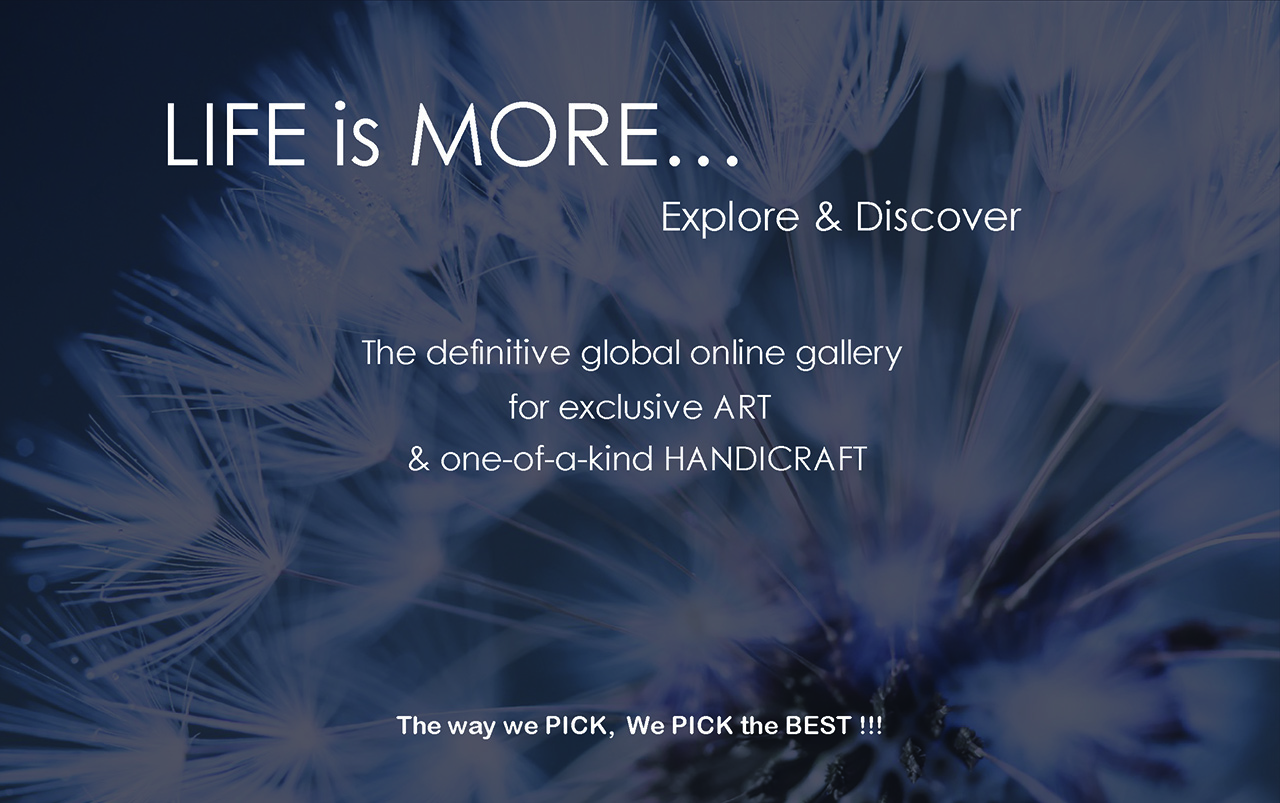
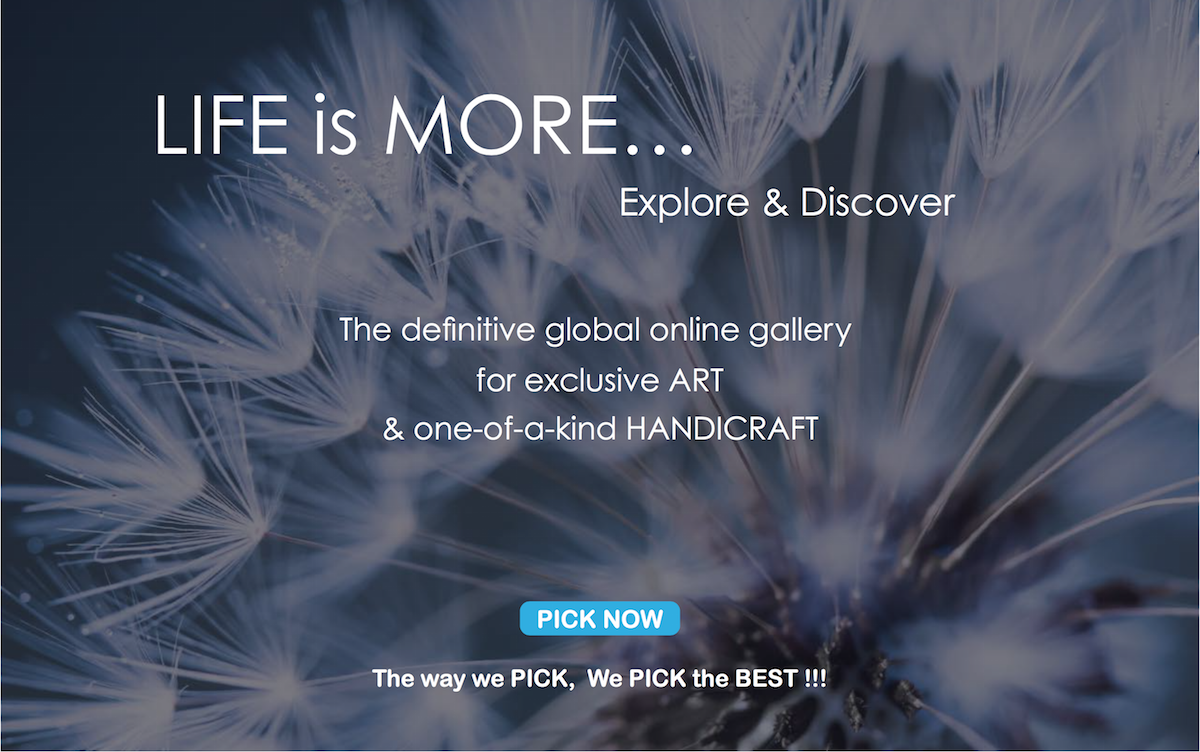
change new slider images and add google analytics

diff --git a/src/components/HomeSlider.jsx b/src/components/HomeSlider.jsx
@@ -1,4 +1,5 @@
 import React from 'react';
+import {Link} from 'react-router'
 
 export default class HomeSlider extends React.Component {
 
@@ -10,13 +11,13 @@ export default class HomeSlider extends React.Component {
   render() {
     return (
         <div className="pikapok__slider col-xs-12">
-          <img className="slider_images img-responsive" src="img/slide-1.jpg"/>
-          <img className="slider_images img-responsive" src="img/slide-2.jpg"/>
-          <img className="slider_images img-responsive" src="img/slide-3.jpg"/>
-          <img className="slider_images img-responsive" src="img/slide-4.jpg"/>
-          <img className="slider_images img-responsive" src="img/slide-5.jpg"/>
-          <img className="slider_images img-responsive" src="img/slide-6.jpg"/>
-          <img className="slider_images img-responsive" src="img/slide-7.jpg"/>
+          <Link to="/gallery"><img className="slider_images img-responsive" src="img/slide-1.jpg"/></Link>
+          <Link to="/gallery"><img className="slider_images img-responsive" src="img/slide-2.jpg"/></Link>
+          <Link to="/product/3"><img className="slider_images img-responsive" src="img/slide-3.jpg"/></Link>
+          <Link to="/gallery"><img className="slider_images img-responsive" src="img/slide-4.jpg"/></Link>
+          <Link to="/gallery"><img className="slider_images img-responsive" src="img/slide-5.jpg"/></Link>
+          <Link to="/gallery"><img className="slider_images img-responsive" src="img/slide-6.jpg"/></Link>
+          <Link to="/product/3"><img className="slider_images img-responsive" src="img/slide-7.jpg"/></Link>
         </div>
     );
   }

diff --git a/public/index.html b/public/index.html
@@ -2,6 +2,14 @@
 <html>
 
 <head>
+	<!-- Google Tag Manager -->
+	<script>(function(w,d,s,l,i){w[l]=w[l]||[];w[l].push({'gtm.start':
+	new Date().getTime(),event:'gtm.js'});var f=d.getElementsByTagName(s)[0],
+	j=d.createElement(s),dl=l!='dataLayer'?'&l='+l:'';j.async=true;j.src=
+	'https://www.googletagmanager.com/gtm.js?id='+i+dl;f.parentNode.insertBefore(j,f);
+	})(window,document,'script','dataLayer','GTM-5WBC8K');</script>
+	<!-- End Google Tag Manager -->
+
 	<meta charset="utf-8" />
 	<meta http-equiv="x-ua-compatible" content="ie=edge">
 	<meta name="description" content="">
@@ -73,6 +81,9 @@
 			</div>
 		</div>
 		<div class="col-xs-10 col-xs-offset-1 col-sm-3 DHL">
+			<span>
+				Distribution
+			</span>
 			<img src="img/dhl_logo.jpg" alt="" />
 			<input type="password" class="form-control" id="hdl_tracking" placeholder="Tracking Number">
 			<button type="button" class="btn btn-danger" > Track </button>
@@ -80,6 +91,10 @@
 	</footer>
 
 	<script src="bundle.js"></script>
+	<!-- Google Tag Manager (noscript) -->
+	<noscript><iframe src="https://www.googletagmanager.com/ns.html?id=GTM-5WBC8K"
+	height="0" width="0" style="display:none;visibility:hidden"></iframe></noscript>
+	<!-- End Google Tag Manager (noscript) -->
 </body>
 
 </html>
